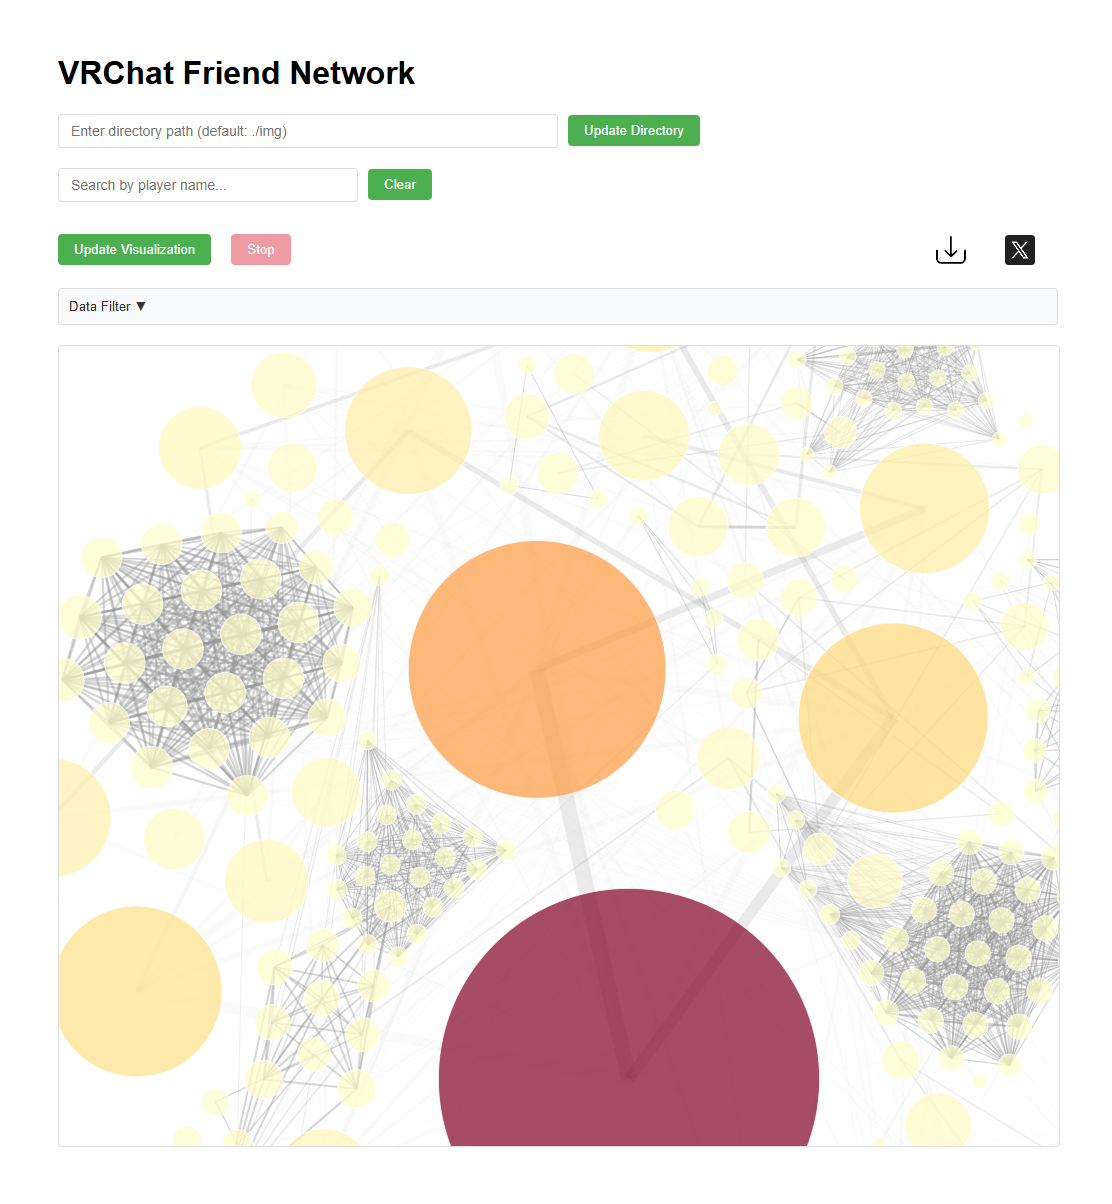
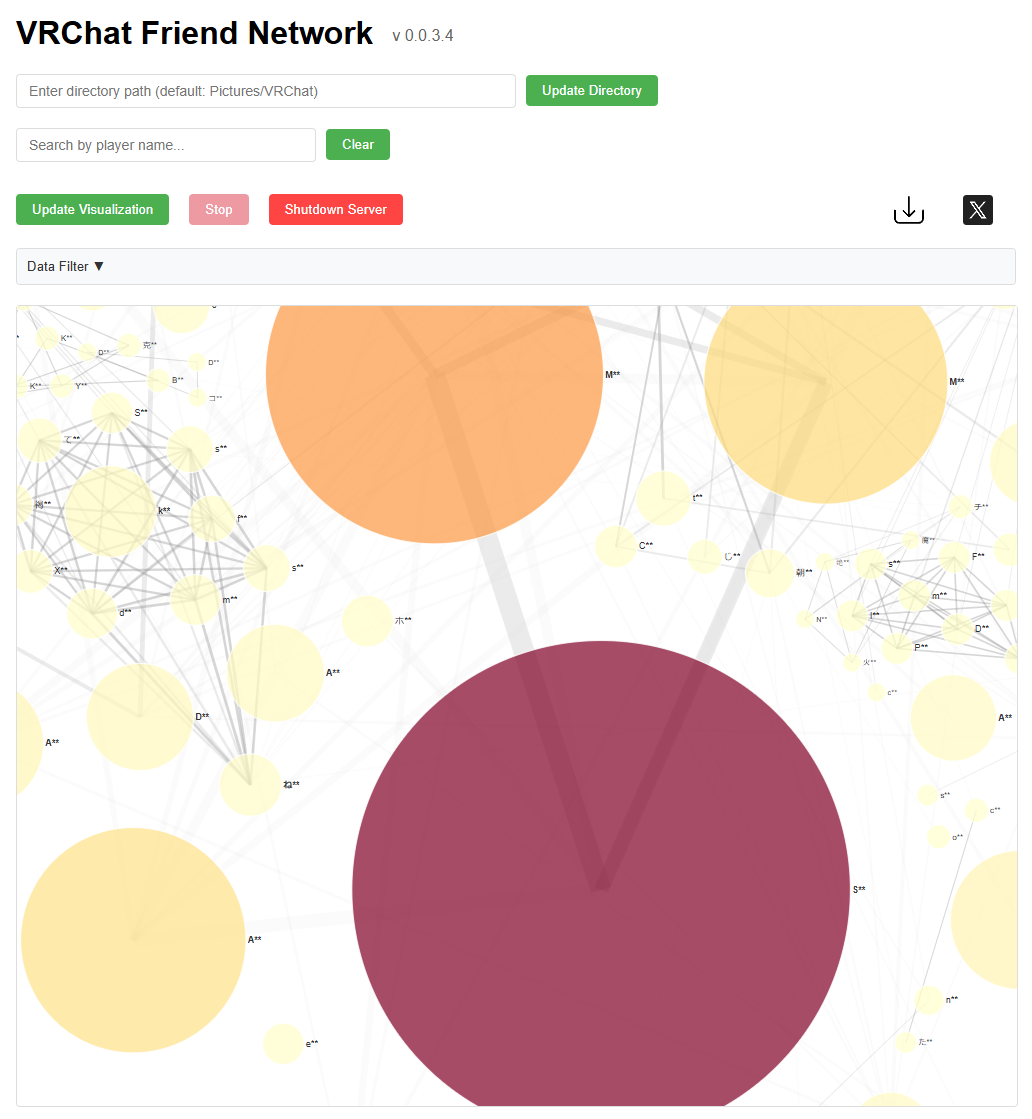
image/readme update

diff --git a/public/js/network-visualization.js b/public/js/network-visualization.js
@@ -142,6 +142,9 @@ async function visualizeNetworkData(providedMetadata = null) {
             .map(([id, count]) => ({
                 id: id,
                 name: playerInfoMap.get(id) || id,
+                // masking option for top image (temp)
+                // TODO : あとで機能として追加したい
+                // name: (playerInfoMap.get(id) || id).replace(/^(.)(.+)$/, '$1' + '*'.repeat(2)),
                 count: count
             }));
 

diff --git a/README.md b/README.md
@@ -5,8 +5,6 @@
 
 ![preview](./image/main.png)
 
-***Names are missing in the example screenshots, but they will appear in the Active version!***
-
 A web-based application that visualizes your VRChat friends network using interactive D3.js graphs. Easily scan your VRChat photos, generate metadata, and explore connections between players through an intuitive and dynamic interface.
 
 You can only use photos taken while [**VRCX**](https://github.com/vrcx-team/VRCX) is running.
